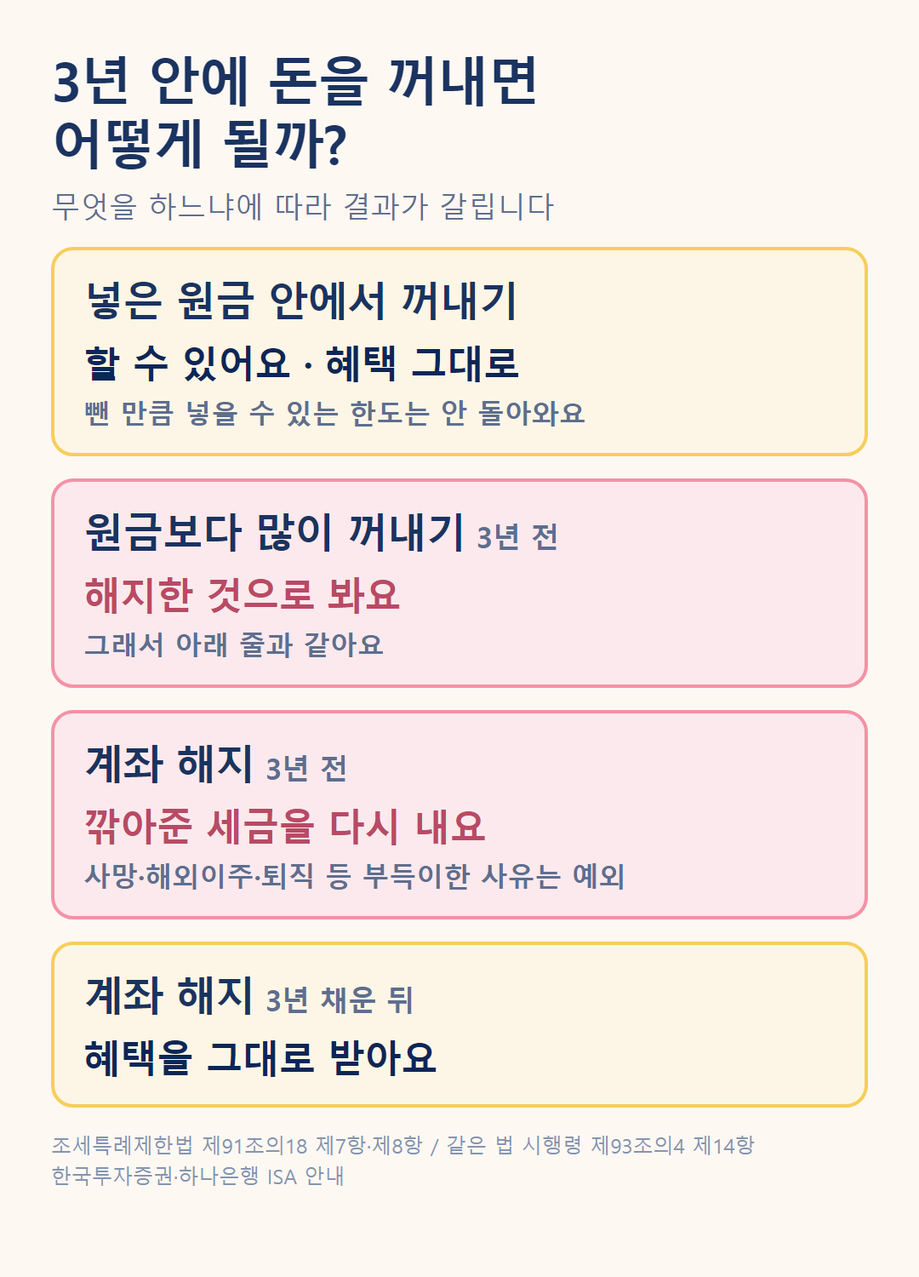
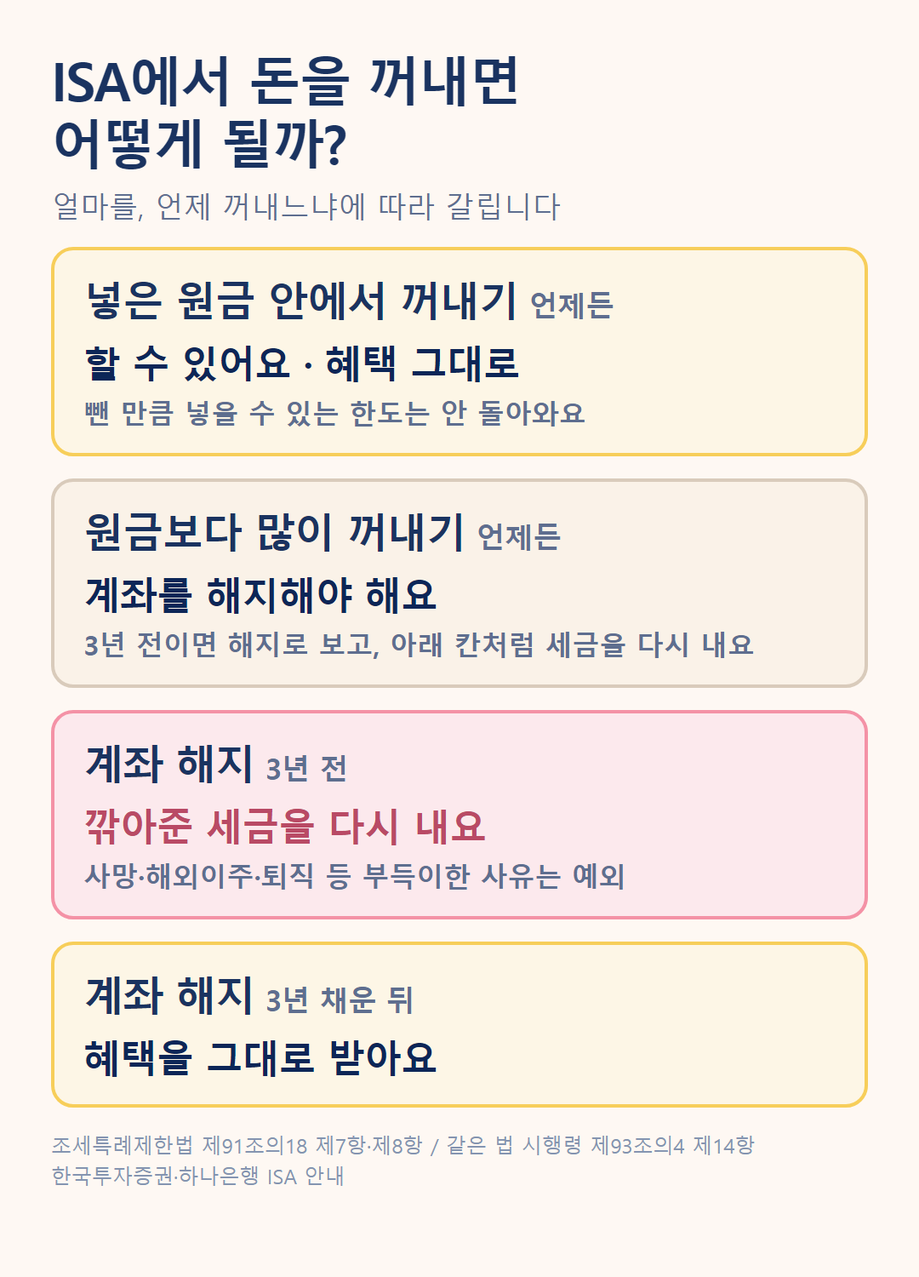
moneyweather: ISA v3 — 손익통산 제외 손실·3년 후 인출·생산적금융 ISA 표현 정리
미확인으로 남겼던 네 항목을 사용자 조사, 02_조사정리 메모, 공식자료로 정리했다.

- 국내 주식형 ETF·펀드 매매손실은 손익통산에서 제외
  (시행령 제93조의4 제9항제2호 + 소득세법 시행령 제26조의2 제4항,
  삼성증권 상품별 통산 기준, 미래에셋 매거진)
  → 3장 예시를 「해외 ETF A +300 / B −100」으로 상품부터 밝히고,
    반대 예(국내 주식형 ETF 손실은 빼주지 않음)를 붙임
- 3년이 지나도 계좌를 둔 채로는 원금까지만 인출 (한투: 시점 제한 없는
  납입원금 한도, 법령 제8항은 3년 전만 규정)
  → 5장 한 줄 요약·FAQ·그림 04 두 번째 칸 수정(중립색)
- 「재정경제부령으로 정하는 주식」= 주권상장법인 주식(대주주 제외) — 일치
- 생산적금융 ISA: 「정부안에 남아 있다」→「신설안을 내놓았고 국회 심사를
  앞둔 상태」. 2026-12-31 확인 목록 여덟 항목을 numbers.md에

조사정리 메모와 공식자료가 다른 두 항목(ETF 손실 「반영 가능」, 3년 후
원금 초과 인출 「가능」)은 출처가 없고 법령·증권사 자료와 반대라 따르지
않았다. 판단 근거를 numbers.md·factcheck.md 11번에 기록.

CLAUDE.md §38.5.10: 합쳐주는·빼주는 제도는 제외 대상부터 확인 /
예시는 결과를 바꾸는 입력(상품 종류)부터 밝힘 / 「법이 막지 않음」과
「실제로 가능」 구분 / 출처 없는 조사 메모는 근거가 아니라 질문 목록.

검수.js GREEN (RED 0 / YELLOW 0). 폭 390px 렌더링 확인.

diff --git a/MONEYWEATHER/03_콘텐츠/초안/2026-09-07_ISA_직장인_실제혜택_v3/article-tistory.html b/MONEYWEATHER/03_콘텐츠/초안/2026-09-07_ISA_직장인_실제혜택_v3/article-tistory.html
@@ -58,26 +58,26 @@ ISA 서민형  400만원 → 0원
 <p style="margin:0 0 18px !important">같은 500만원을 벌었는데 서민형이면 67만원이 남습니다. 한 달 통신비 몇 달치예요.</p>
 <h2 style="font-size:1.45rem; line-height:1.4; letter-spacing:-.5px; font-weight:800; color:#0C2657; margin:30px 0 18px; padding-top:20px; border-top:2px solid #EADFD2">3. 「손해 본 것도 같이 쳐준다」는 게 무슨 뜻인가요?</h2>
 <p style="margin:0 0 18px !important">쉽게 말하면, <strong style="font-weight:700; color:#0C2657">ISA 안에서 생긴 이익과 손실을 따로 계산하지 않고 합쳐서 보는 방식</strong>입니다.</p>
-<p style="margin:0 0 18px !important">ISA 안에 투자 두 개를 담았는데 결과가 이렇게 나왔다고 해볼게요.</p>
-<pre style="background:#F6EDE2; border:1px solid #EADFD2; border-radius:8px; padding:16px 18px; overflow-x:auto; max-width:100%; margin:24px 0; line-height:1.65; font-size:.86rem"><code style="font-family:Consolas,'D2Coding','Malgun Gothic','맑은 고딕',monospace; font-size:.9rem">투자 A   +300만원   (번 투자)
-투자 B   −100만원   (손해 본 투자)
+<p style="margin:0 0 18px !important">예를 들어볼게요. 미국 주식에 투자하는 ETF 두 개, A와 B를 ISA에 담았다고 해볼게요.</p>
+<p style="margin:0 0 18px !important"><strong style="font-weight:700; color:#0C2657">ETF</strong>는 여러 주식이나 채권 등을 한데 담아놓고, 주식처럼 사고팔 수 있는 상품이에요. A와 B는 한국 증시에 올라와 있어서 원화로 살 수 있는 <strong style="font-weight:700; color:#0C2657">국내 상장 해외 ETF</strong>입니다. 이런 ETF는 팔아서 남긴 돈에도 세금이 붙어서, 손실도 세금 계산에 들어갑니다.</p>
+<p style="margin:0 0 18px !important">세금 계산에 들어가는 손익이 이렇게 나왔다고 해볼게요.</p>
+<pre style="background:#F6EDE2; border:1px solid #EADFD2; border-radius:8px; padding:16px 18px; overflow-x:auto; max-width:100%; margin:24px 0; line-height:1.65; font-size:.86rem"><code style="font-family:Consolas,'D2Coding','Malgun Gothic','맑은 고딕',monospace; font-size:.9rem">해외 ETF A   +300만원   (번 투자)
+해외 ETF B   −100만원   (손해 본 투자)
 ──────────────────────────
-세금을 따져볼 수익   200만원</code></pre>
+세금을 따져볼 수익     200만원</code></pre>
 <p style="margin:0 0 18px !important">이 200만원은 비과세 한도 안이라 <strong style="font-weight:700; color:#0C2657">ISA에서는 세금이 0원</strong>입니다.</p>
-<p style="margin:0 0 18px !important">그냥 계좌였다면 어떨까요? A와 B가 미국 주식에 투자하는 ETF라고 해볼게요.</p>
-<p style="margin:0 0 18px !important"><strong style="font-weight:700; color:#0C2657">ETF</strong>는 여러 주식이나 채권 등을 한데 담아놓고, 주식처럼 사고팔 수 있는 상품이에요. 그중 미국 증시가 아니라 한국 증시에 올라와 있어서 원화로 살 수 있는 걸 <strong style="font-weight:700; color:#0C2657">국내 상장 해외 ETF</strong>라고 부릅니다. 이런 ETF는 팔아서 남긴 돈에도 세금이 붙어요.</p>
-<p style="margin:0 0 18px !important">그냥 계좌는 <strong style="font-weight:700; color:#0C2657">이익 난 것만 보고 세금을 뗍니다.</strong> B에서 잃은 100만원은 없는 셈 치고, A에서 번 300만원에만 세금이 붙어요.</p>
+<p style="margin:0 0 18px !important">그냥 계좌였다면 어떨까요? 그냥 계좌는 <strong style="font-weight:700; color:#0C2657">이익 난 것만 보고 세금을 뗍니다.</strong> B에서 잃은 100만원은 없는 셈 치고, A에서 번 300만원에만 세금이 붙어요.</p>
 <pre style="background:#F6EDE2; border:1px solid #EADFD2; border-radius:8px; padding:16px 18px; overflow-x:auto; max-width:100%; margin:24px 0; line-height:1.65; font-size:.86rem"><code style="font-family:Consolas,'D2Coding','Malgun Gothic','맑은 고딕',monospace; font-size:.9rem">300만원 × 15.4% = 46만 2천원</code></pre>
 <p style="margin:0 0 18px !important">실제 세금은 상품마다 정해진 과세 기준으로 계산해서 이보다 적을 수 있어요. 그래도 차이가 난다는 건 분명합니다.</p>
 <p style="margin:0 0 18px !important">같은 투자를 했는데 46만 2천원이 갈립니다.</p>
 <figure style="margin:32px 0; max-width:100%"><img src="../../../04_이미지/2026-09-07_ISA_직장인_실제혜택_v3/03_손익통산.png" alt="그냥 계좌는 이익 300만원에만 세금을 매겨 46만 2천원, ISA는 손실을 뺀 200만원이 비과세 한도 안이라 0원인 비교 그림" loading="lazy" style="width:100%; height:auto; border:1px solid #EADFD2; border-radius:10px; display:block"><figcaption style="margin-top:10px !important; font-size:.86rem; color:#5E6E8F; text-align:center">그냥 계좌는 이익 난 것만 봅니다. ISA는 바구니 전체를 봅니다.</figcaption></figure>
-<p style="margin:0 0 18px !important">그럼 어디까지 합쳐줄까요?</p>
+<p style="margin:0 0 18px !important">그럼 ISA 안에서 난 손실이면 뭐든 합쳐줄까요? <strong style="font-weight:700; color:#0C2657">그렇지 않습니다.</strong></p>
 <ul style="margin:0 0 20px; padding-left:24px">
-<li style="margin-bottom:8px"><strong style="font-weight:700; color:#0C2657">같은 종목끼리만 되나요?</strong> 아닙니다. ISA 안에 담긴 상품이면 종류가 달라도 합칩니다. 다만 법령에서 빼도록 정한 손실도 있어서, 모든 손실이 다 들어가는 건 아니에요.</li>
-<li style="margin-bottom:8px"><strong style="font-weight:700; color:#0C2657">해마다 따로 합치나요?</strong> 아닙니다. 가입 기간 전체를 합쳐서, 계좌를 해지할 때 한 번 계산합니다.</li>
+<li style="margin-bottom:8px"><strong style="font-weight:700; color:#0C2657">원래 세금이 안 붙는 손익은 빠집니다.</strong> 국내 주식형 ETF나 국내 주식형 펀드를 팔아서 난 손실이 대표적이에요. 팔아서 번 돈에 세금을 매기지 않는 대신, 잃은 돈도 합쳐주지 않습니다. 그래서 국내 주식형 ETF에서 100만원을 잃고 예금 이자를 300만원 받았다면, 300만원에서 그 100만원을 빼주지 않고 계산해요.</li>
+<li style="margin-bottom:8px"><strong style="font-weight:700; color:#0C2657">해마다 따로 합치지 않습니다.</strong> 가입 기간 전체를 합쳐서, 계좌를 해지할 때 한 번 계산합니다.</li>
 </ul>
-<p class="src-note" style="margin:-8px 0 22px !important; padding-left:12px !important; border-left:3px solid #F492A6; color:#5E6E8F; font-size:.83rem; line-height:1.6">손익통산·해지일 기준 계산 — 조세특례제한법 제91조의18 제5항, 시행령 제93조의4 제9항·제10항 / 국회예산정책처 「ISA의 국내외 현황 및 쟁점」(2026-04-30) · <a href="https://www.nabo.go.kr/board/file/down.do?fid=33319223" target="_blank" rel="noopener" style="color:#5E6E8F; text-decoration:underline; text-underline-offset:2px">보고서 보기</a> / 국내 상장 해외 ETF 과세 — <a href="https://www.samsungfund.com/etf/insight/guide/view05.do" target="_blank" rel="noopener" style="color:#5E6E8F; text-decoration:underline; text-underline-offset:2px">KODEX ETF 세금 안내</a></p>
-<p style="margin:0 0 18px !important">투자를 하다 보면 전부 오르는 경우는 잘 없죠. 이것저것 나눠 담을수록 이 부분이 커집니다.</p>
+<p class="src-note" style="margin:-8px 0 22px !important; padding-left:12px !important; border-left:3px solid #F492A6; color:#5E6E8F; font-size:.83rem; line-height:1.6">손익통산·해지일 기준 계산·제외 손실 — 조세특례제한법 제91조의18 제5항, 시행령 제93조의4 제9항·제10항, 소득세법 시행령 제26조의2 제4항 / 상품별 통산 기준 — <a href="https://www.samsungpop.com/mbw/finance/isa.do?cmd=guide" target="_blank" rel="noopener" style="color:#5E6E8F; text-decoration:underline; text-underline-offset:2px">삼성증권 ISA 안내</a> / 국회예산정책처 「ISA의 국내외 현황 및 쟁점」(2026-04-30) · <a href="https://www.nabo.go.kr/board/file/down.do?fid=33319223" target="_blank" rel="noopener" style="color:#5E6E8F; text-decoration:underline; text-underline-offset:2px">보고서 보기</a> / 국내 상장 해외 ETF 과세 — <a href="https://www.samsungfund.com/etf/insight/guide/view05.do" target="_blank" rel="noopener" style="color:#5E6E8F; text-decoration:underline; text-underline-offset:2px">KODEX ETF 세금 안내</a></p>
+<p style="margin:0 0 18px !important">투자를 하다 보면 전부 오르는 경우는 잘 없죠. 세금이 붙는 상품을 여러 개 나눠 담을수록 이 부분이 커집니다.</p>
 <h2 style="font-size:1.45rem; line-height:1.4; letter-spacing:-.5px; font-weight:800; color:#0C2657; margin:30px 0 18px; padding-top:20px; border-top:2px solid #EADFD2">4. 저는 국내 주식만 하는데, 그래도 효과가 있나요?</h2>
 <p style="margin:0 0 18px !important"><strong style="font-weight:700; color:#0C2657">효과는 있지만, 생각보다 작을 수 있습니다.</strong></p>
 <p style="margin:0 0 18px !important">이유는 하나예요. <strong style="font-weight:700; color:#0C2657">국내 주식은 팔아서 남긴 차익에 원래 세금이 없습니다.</strong> 회사 지분을 아주 많이 들고 있는 대주주가 아니라면요. ISA에 넣든 안 넣든 똑같으니, 이 부분에서는 깎아줄 세금이 없습니다.</p>
@@ -94,8 +94,8 @@ ISA 서민형  400만원 → 0원
 <h2 style="font-size:1.45rem; line-height:1.4; letter-spacing:-.5px; font-weight:800; color:#0C2657; margin:30px 0 18px; padding-top:20px; border-top:2px solid #EADFD2">5. 3년 동안 돈이 묶이는 건가요?</h2>
 <p style="margin:0 0 18px !important"><strong style="font-weight:700; color:#0C2657">ISA는 최소 3년을 유지해야 세금 혜택을 받을 수 있습니다.</strong> 이 기간을 <strong style="font-weight:700; color:#0C2657">의무가입기간</strong>이라고 해요.</p>
 <p style="margin:0 0 18px !important">그렇다고 <strong style="font-weight:700; color:#0C2657">3년 동안 돈을 한 푼도 못 빼는 건 아닙니다.</strong> 무엇을 하려는지에 따라 결과가 갈려요.</p>
-<figure style="margin:32px 0; max-width:100%"><img src="../../../04_이미지/2026-09-07_ISA_직장인_실제혜택_v3/04_인출과해지.png" alt="3년 안에 돈을 꺼내는 상황별 결과: 넣은 원금 안에서 꺼내기는 가능하고 혜택 유지(한도는 안 돌아옴), 3년 전에 원금보다 많이 꺼내면 해지로 보고 깎아준 세금을 다시 냄, 3년 전 해지는 세금을 다시 내되 사망·해외이주·퇴직 등 부득이한 사유는 예외, 3년을 채우고 해지하면 혜택을 그대로 받음" loading="lazy" style="width:100%; height:auto; border:1px solid #EADFD2; border-radius:10px; display:block"><figcaption style="margin-top:10px !important; font-size:.86rem; color:#5E6E8F; text-align:center">노란 칸은 세금 혜택이 남는 경우, 분홍 칸은 깎아준 세금을 다시 내는 경우입니다.</figcaption></figure>
-<p style="margin:0 0 18px !important">한 줄로 줄이면, <strong style="font-weight:700; color:#0C2657">넣은 원금은 3년 안에도 꺼낼 수 있고, 번 돈까지 꺼내는 건 3년을 채운 뒤에 해야 세금 혜택이 남습니다.</strong></p>
+<figure style="margin:32px 0; max-width:100%"><img src="../../../04_이미지/2026-09-07_ISA_직장인_실제혜택_v3/04_인출과해지.png" alt="ISA에서 돈을 꺼내는 상황별 결과: 넣은 원금 안에서 꺼내기는 언제든 가능하고 혜택 유지(한도는 안 돌아옴), 원금보다 많이 꺼내려면 계좌를 해지해야 하며 3년 전이면 해지로 보고 깎아준 세금을 다시 냄, 3년 전 해지는 세금을 다시 내되 사망·해외이주·퇴직 등 부득이한 사유는 예외, 3년을 채우고 해지하면 혜택을 그대로 받음" loading="lazy" style="width:100%; height:auto; border:1px solid #EADFD2; border-radius:10px; display:block"><figcaption style="margin-top:10px !important; font-size:.86rem; color:#5E6E8F; text-align:center">노란 칸은 세금 혜택이 남는 경우, 분홍 칸은 깎아준 세금을 다시 내는 경우입니다. 가운데 흰 칸은 언제 해지하느냐에 따라 갈려요.</figcaption></figure>
+<p style="margin:0 0 18px !important">한 줄로 줄이면, <strong style="font-weight:700; color:#0C2657">계좌를 둔 채로 꺼낼 수 있는 건 넣은 원금까지입니다. 번 돈까지 찾으려면 계좌를 해지해야 하고, 그 해지를 3년 채운 뒤에 해야 세금 혜택이 남아요.</strong> 3년이 지났다고 계좌를 둔 채 번 돈을 자유롭게 꺼낼 수 있는 건 아닙니다.</p>
 <p style="margin:0 0 18px !important">3년 전에 해지해도 세금을 다시 걷지 않는 경우가 있긴 합니다. 사망이나 해외이주, 그리고 해지하기 전 6개월 안에 생긴 퇴직·폐업·천재지변·3개월 이상 입원치료가 필요한 병이나 사고 같은 <strong style="font-weight:700; color:#0C2657">부득이한 사유</strong>예요. 이때는 금융회사에 사유를 신고해야 합니다.</p>
 <p class="src-note" style="margin:-8px 0 22px !important; padding-left:12px !important; border-left:3px solid #F492A6; color:#5E6E8F; font-size:.83rem; line-height:1.6">중도해지 추징·원금 초과 인출 — 조세특례제한법 제91조의18 제7항·제8항 / 부득이한 사유 — 조세특례제한법 시행령 제93조의4 제14항·제81조제6항제3호, 하나은행 ISA 안내 · <a href="https://www.law.go.kr/%EB%B2%95%EB%A0%B9/%EC%A1%B0%EC%84%B8%ED%8A%B9%EB%A1%80%EC%A0%9C%ED%95%9C%EB%B2%95" target="_blank" rel="noopener" style="color:#5E6E8F; text-decoration:underline; text-underline-offset:2px">법령 보기</a> / 중도인출·한도 미복원 — 한국투자증권 ISA 중개형 상품설명서 / 국회예산정책처 「ISA의 국내외 현황 및 쟁점」 [표 1]</p>
 <p style="margin:0 0 18px !important">그 밖의 조건은 표로 모았습니다.</p>
@@ -124,7 +124,7 @@ ISA 서민형  400만원 → 0원
 <li style="margin-bottom:8px">예금·적금 이자가 꾸준히 생기는 분</li>
 <li style="margin-bottom:8px">배당을 꾸준히 받는 주식이나 상품을 모아가는 분</li>
 <li style="margin-bottom:8px">국내에 상장된 해외 ETF를 사고파는 분</li>
-<li style="margin-bottom:8px">여러 상품에 나눠 담아서 이익과 손실이 섞이는 분</li>
+<li style="margin-bottom:8px">해외 ETF처럼 세금이 붙는 상품을 여러 개 나눠 담는 분</li>
 <li style="margin-bottom:8px">서민형 조건에 해당하는 분</li>
 </ul>
 <p style="margin:0 0 18px !important"><strong style="font-weight:700; color:#0C2657">지금 당장은 급하지 않은 쪽</strong></p>
@@ -143,19 +143,19 @@ ISA 서민형  400만원 → 0원
 </div>
 <div class="qa" style="border-top:1px solid #EADFD2; padding:18px 0 4px">
 <p class="qa-q" style="margin:0 0 8px !important; font-weight:700; color:#0C2657">200만원 비과세는 해마다 200만원인가요?</p>
-<p class="qa-a" style="margin:0 0 10px !important; color:#1A3360"><strong style="font-weight:700; color:#0C2657">A. 아닙니다.</strong> ISA 계좌를 해지할 때, 가입 기간 동안 번 돈에서 손실을 뺀 금액을 모두 합쳐 200만원(서민형 400만원)까지 세금이 없습니다. 넣은 돈이 아니라 번 돈 기준이에요.</p>
+<p class="qa-a" style="margin:0 0 10px !important; color:#1A3360"><strong style="font-weight:700; color:#0C2657">A. 아닙니다.</strong> ISA 계좌를 해지할 때, 가입 기간 동안 생긴 이자·배당 같은 수익에서 합쳐주는 손실을 뺀 금액이 200만원(서민형 400만원)까지면 세금이 없습니다. 넣은 돈이 아니라 번 돈 기준이에요.</p>
 </div>
 <div class="qa" style="border-top:1px solid #EADFD2; padding:18px 0 4px">
 <p class="qa-q" style="margin:0 0 8px !important; font-weight:700; color:#0C2657">3년 안에 돈이 필요하면 어떻게 하나요?</p>
-<p class="qa-a" style="margin:0 0 10px !important; color:#1A3360"><strong style="font-weight:700; color:#0C2657">A. 넣은 원금까지는 계좌를 유지한 채로 뺄 수 있습니다.</strong> 횟수 제한도 없어요. 3년 안에 원금보다 많이 꺼내면 해지한 것으로 보고, 그동안 깎아준 세금을 다시 내는 게 원칙입니다. 사망·해외이주나 해지 전 6개월 안에 생긴 퇴직·폐업·장기 입원치료 같은 부득이한 사유는 예외예요. 뺀 원금만큼 넣을 수 있는 한도는 되살아나지 않습니다.</p>
+<p class="qa-a" style="margin:0 0 10px !important; color:#1A3360"><strong style="font-weight:700; color:#0C2657">A. 넣은 원금까지는 계좌를 유지한 채로 뺄 수 있습니다.</strong> 횟수 제한도 없어요. 번 돈까지 찾으려면 계좌를 해지해야 하는데, 이건 3년이 지난 뒤에도 같습니다. 3년 안에 원금보다 많이 꺼내면 해지한 것으로 보고, 그동안 깎아준 세금을 다시 내는 게 원칙입니다. 사망·해외이주나 해지 전 6개월 안에 생긴 퇴직·폐업·장기 입원치료 같은 부득이한 사유는 예외예요. 뺀 원금만큼 넣을 수 있는 한도는 되살아나지 않습니다. 인출 방법은 금융회사마다 조금씩 달라서, 쓰는 곳의 안내를 한 번 확인하는 게 좋아요.</p>
 </div>
 <div class="qa" style="border-top:1px solid #EADFD2; padding:18px 0 4px">
 <p class="qa-q" style="margin:0 0 8px !important; font-weight:700; color:#0C2657">국내 주식만 사는데 ISA를 만들 필요가 있나요?</p>
-<p class="qa-a" style="margin:0 0 10px !important; color:#1A3360"><strong style="font-weight:700; color:#0C2657">A. 효과가 작을 수 있습니다.</strong> 국내 주식을 팔아서 남긴 차익에는 원래 세금이 없기 때문이에요. 다만 배당금에 붙는 세금은 깎입니다. 그리고 ISA 안에서 국내 상장주식을 팔아 손해를 봤다면, 그 손실도 다른 상품의 이익과 합쳐서 계산해줍니다. 대주주가 가진 주식은 빠지고, ISA 밖에서 사고판 것도 합치지 않습니다.</p>
+<p class="qa-a" style="margin:0 0 10px !important; color:#1A3360"><strong style="font-weight:700; color:#0C2657">A. 효과가 작을 수 있습니다.</strong> 국내 주식을 팔아서 남긴 차익에는 원래 세금이 없기 때문이에요. 다만 배당금에 붙는 세금은 깎입니다. 그리고 ISA 안에서 국내 상장주식을 직접 팔아 손해를 봤다면, 그 손실은 다른 상품의 이익과 합쳐서 계산해줍니다. 대주주가 가진 주식은 빠지고, ISA 밖에서 사고판 것도 합치지 않습니다. 국내 주식형 ETF나 펀드에서 난 손실은 합쳐주지 않는다는 점도 헷갈리기 쉬워요.</p>
 </div>
 <div class="qa" style="border-top:1px solid #EADFD2; padding:18px 0 4px">
 <p class="qa-q" style="margin:0 0 8px !important; font-weight:700; color:#0C2657">올해 ISA 제도가 또 바뀐다던데요?</p>
-<p class="qa-a" style="margin:0 0 10px !important; color:#1A3360"><strong style="font-weight:700; color:#0C2657">A. 아직 바뀐 건 없습니다.</strong> 2026년 8월 발표된 세제개편안에는 기존 ISA의 계약기간을 제한하고 한도 이월을 없애는 내용이 있었지만, 9월 1일 확정된 정부안에서 빠졌습니다. 국내 투자 전용인 「생산적금융 ISA」를 새로 만드는 안은 정부안에 남아 있습니다. 정부안은 국회 심사를 거쳐야 법이 되므로, 가입할 때는 그 시점에 시행 중인 기준을 확인하는 게 좋습니다.</p>
+<p class="qa-a" style="margin:0 0 10px !important; color:#1A3360"><strong style="font-weight:700; color:#0C2657">A. 아직 바뀐 건 없습니다.</strong> 2026년 8월 발표된 세제개편안에는 기존 ISA의 계약기간을 제한하고 한도 이월을 없애는 내용이 있었지만, 9월 1일 국무회의를 거친 정부안에서 빠졌습니다. 정부는 국내 투자 전용인 「생산적금융 ISA」 신설안도 내놓았는데, 이 법안은 9월 3일까지 국회에 제출돼 심사를 앞둔 상태입니다. 국회를 통과해야 법이 되므로, 가입할 때는 그 시점에 시행 중인 기준을 확인하는 게 좋습니다.</p>
 </div>
 <div class="qa" style="border-top:1px solid #EADFD2; padding:18px 0 4px">
 <p class="qa-q" style="margin:0 0 8px !important; font-weight:700; color:#0C2657">만기가 되면 그냥 찾으면 되나요?</p>
@@ -166,7 +166,7 @@ ISA 서민형  400만원 → 0원
 <p class="qa-a" style="margin:0 0 10px !important; color:#1A3360"><strong style="font-weight:700; color:#0C2657">A. 한 사람당 하나입니다.</strong> 은행·증권사를 통틀어 1인 1계좌예요. 다른 곳으로 옮기고 싶으면 기존 계좌를 해지하거나 이전 신청을 해야 합니다.</p>
 </div>
 </div>
-<p class="src-note" style="margin:-8px 0 22px !important; padding-left:12px !important; border-left:3px solid #F492A6; color:#5E6E8F; font-size:.83rem; line-height:1.6">가입 자격 — 조세특례제한법 제91조의18 제1항·제129조의2 / 중도해지 — 같은 법 제91조의18 제7항·제8항, 시행령 제93조의4 제14항 / 중도인출·1인 1계좌 — 한국투자증권 ISA 중개형 상품설명서 / 2026년 세제개편안 — 「2026년 세제개편안 정부안 확정」(2026-09-01) 첨부 「주요 수정사항」 1·2번 · 대한민국 정책브리핑 <a href="https://www.korea.kr/briefing/pressReleaseView.do?newsId=156776418" target="_blank" rel="noopener" style="color:#5E6E8F; text-decoration:underline; text-underline-offset:2px">보도자료 보기</a> / 국내 상장주식 손실 통산(대주주 제외) — 조세특례제한법 시행규칙 제42조의3 제1항, <a href="https://www.samsungpop.com/mbw/finance/isa.do?cmd=guide" target="_blank" rel="noopener" style="color:#5E6E8F; text-decoration:underline; text-underline-offset:2px">삼성증권 ISA 안내</a> / 만기 후 연금계좌 이전 — 소득세법 제59조의3 제3항·제4항, 시행령 제118조의2 제3항 / 55세 연금수령 — 소득세법 시행령 제40조의2 제3항 / 계약기간·연장 — 조세특례제한법 제91조의18 제3항제4호·제4항 · <a href="https://www.nts.go.kr/nts/cm/cntnts/cntntsView.do?cntntsId=7875" target="_blank" rel="noopener" style="color:#5E6E8F; text-decoration:underline; text-underline-offset:2px">국세청 연금계좌 안내</a></p>
+<p class="src-note" style="margin:-8px 0 22px !important; padding-left:12px !important; border-left:3px solid #F492A6; color:#5E6E8F; font-size:.83rem; line-height:1.6">가입 자격 — 조세특례제한법 제91조의18 제1항·제129조의2 / 중도해지 — 같은 법 제91조의18 제7항·제8항, 시행령 제93조의4 제14항 / 중도인출·1인 1계좌 — 한국투자증권 ISA 중개형 상품설명서 / 2026년 세제개편안 — 「2026년 세제개편안 정부안 확정」(2026-09-01) 첨부 「주요 수정사항」 1·2번 · 대한민국 정책브리핑 <a href="https://www.korea.kr/briefing/pressReleaseView.do?newsId=156776418" target="_blank" rel="noopener" style="color:#5E6E8F; text-decoration:underline; text-underline-offset:2px">보도자료 보기</a> / 국내 상장주식 손실 통산(대주주 제외)·국내 주식형 펀드 손실 제외 — 조세특례제한법 시행규칙 제42조의3 제1항, 시행령 제93조의4 제9항, <a href="https://www.samsungpop.com/mbw/finance/isa.do?cmd=guide" target="_blank" rel="noopener" style="color:#5E6E8F; text-decoration:underline; text-underline-offset:2px">삼성증권 ISA 안내</a> / 만기 후 연금계좌 이전 — 소득세법 제59조의3 제3항·제4항, 시행령 제118조의2 제3항 / 55세 연금수령 — 소득세법 시행령 제40조의2 제3항 / 계약기간·연장 — 조세특례제한법 제91조의18 제3항제4호·제4항 · <a href="https://www.nts.go.kr/nts/cm/cntnts/cntntsView.do?cntntsId=7875" target="_blank" rel="noopener" style="color:#5E6E8F; text-decoration:underline; text-underline-offset:2px">국세청 연금계좌 안내</a></p>
 <h2 style="font-size:1.45rem; line-height:1.4; letter-spacing:-.5px; font-weight:800; color:#0C2657; margin:30px 0 18px; padding-top:20px; border-top:2px solid #EADFD2">결론: 그래서 오늘 당장 무엇을 확인해야 할까?</h2>
 <p style="margin:0 0 18px !important">여기까지 읽으셨다면, 월급 말고 따로 신고하는 소득이 없는 직장인은 작년 <strong style="font-weight:700; color:#0C2657">총급여가 5,000만원을 넘는지</strong>부터 확인해보세요. 이 한 줄로 세금을 안 내는 금액이 두 배로 갈립니다. 조건을 채우는데 몰라서 일반형으로 만드는 게 제일 아깝거든요.</p>
 <div class="do-box" style="background:#FEF8F3; border:1px solid #EADFD2; border-radius:8px; padding:20px 24px; margin:24px 0">

diff --git a/MONEYWEATHER/03_콘텐츠/초안/2026-09-07_ISA_직장인_실제혜택_v3/article.html b/MONEYWEATHER/03_콘텐츠/초안/2026-09-07_ISA_직장인_실제혜택_v3/article.html
@@ -129,26 +129,26 @@ ISA 서민형  400만원 → 0원
 <p>같은 500만원을 벌었는데 서민형이면 67만원이 남습니다. 한 달 통신비 몇 달치예요.</p>
 <h2>3. 「손해 본 것도 같이 쳐준다」는 게 무슨 뜻인가요?</h2>
 <p>쉽게 말하면, <strong>ISA 안에서 생긴 이익과 손실을 따로 계산하지 않고 합쳐서 보는 방식</strong>입니다.</p>
-<p>ISA 안에 투자 두 개를 담았는데 결과가 이렇게 나왔다고 해볼게요.</p>
-<pre><code>투자 A   +300만원   (번 투자)
-투자 B   −100만원   (손해 본 투자)
+<p>예를 들어볼게요. 미국 주식에 투자하는 ETF 두 개, A와 B를 ISA에 담았다고 해볼게요.</p>
+<p><strong>ETF</strong>는 여러 주식이나 채권 등을 한데 담아놓고, 주식처럼 사고팔 수 있는 상품이에요. A와 B는 한국 증시에 올라와 있어서 원화로 살 수 있는 <strong>국내 상장 해외 ETF</strong>입니다. 이런 ETF는 팔아서 남긴 돈에도 세금이 붙어서, 손실도 세금 계산에 들어갑니다.</p>
+<p>세금 계산에 들어가는 손익이 이렇게 나왔다고 해볼게요.</p>
+<pre><code>해외 ETF A   +300만원   (번 투자)
+해외 ETF B   −100만원   (손해 본 투자)
 ──────────────────────────
-세금을 따져볼 수익   200만원</code></pre>
+세금을 따져볼 수익     200만원</code></pre>
 <p>이 200만원은 비과세 한도 안이라 <strong>ISA에서는 세금이 0원</strong>입니다.</p>
-<p>그냥 계좌였다면 어떨까요? A와 B가 미국 주식에 투자하는 ETF라고 해볼게요.</p>
-<p><strong>ETF</strong>는 여러 주식이나 채권 등을 한데 담아놓고, 주식처럼 사고팔 수 있는 상품이에요. 그중 미국 증시가 아니라 한국 증시에 올라와 있어서 원화로 살 수 있는 걸 <strong>국내 상장 해외 ETF</strong>라고 부릅니다. 이런 ETF는 팔아서 남긴 돈에도 세금이 붙어요.</p>
-<p>그냥 계좌는 <strong>이익 난 것만 보고 세금을 뗍니다.</strong> B에서 잃은 100만원은 없는 셈 치고, A에서 번 300만원에만 세금이 붙어요.</p>
+<p>그냥 계좌였다면 어떨까요? 그냥 계좌는 <strong>이익 난 것만 보고 세금을 뗍니다.</strong> B에서 잃은 100만원은 없는 셈 치고, A에서 번 300만원에만 세금이 붙어요.</p>
 <pre><code>300만원 × 15.4% = 46만 2천원</code></pre>
 <p>실제 세금은 상품마다 정해진 과세 기준으로 계산해서 이보다 적을 수 있어요. 그래도 차이가 난다는 건 분명합니다.</p>
 <p>같은 투자를 했는데 46만 2천원이 갈립니다.</p>
 <figure><img src="../../../04_이미지/2026-09-07_ISA_직장인_실제혜택_v3/03_손익통산.png" alt="그냥 계좌는 이익 300만원에만 세금을 매겨 46만 2천원, ISA는 손실을 뺀 200만원이 비과세 한도 안이라 0원인 비교 그림" loading="lazy"><figcaption>그냥 계좌는 이익 난 것만 봅니다. ISA는 바구니 전체를 봅니다.</figcaption></figure>
-<p>그럼 어디까지 합쳐줄까요?</p>
+<p>그럼 ISA 안에서 난 손실이면 뭐든 합쳐줄까요? <strong>그렇지 않습니다.</strong></p>
 <ul>
-<li><strong>같은 종목끼리만 되나요?</strong> 아닙니다. ISA 안에 담긴 상품이면 종류가 달라도 합칩니다. 다만 법령에서 빼도록 정한 손실도 있어서, 모든 손실이 다 들어가는 건 아니에요.</li>
-<li><strong>해마다 따로 합치나요?</strong> 아닙니다. 가입 기간 전체를 합쳐서, 계좌를 해지할 때 한 번 계산합니다.</li>
+<li><strong>원래 세금이 안 붙는 손익은 빠집니다.</strong> 국내 주식형 ETF나 국내 주식형 펀드를 팔아서 난 손실이 대표적이에요. 팔아서 번 돈에 세금을 매기지 않는 대신, 잃은 돈도 합쳐주지 않습니다. 그래서 국내 주식형 ETF에서 100만원을 잃고 예금 이자를 300만원 받았다면, 300만원에서 그 100만원을 빼주지 않고 계산해요.</li>
+<li><strong>해마다 따로 합치지 않습니다.</strong> 가입 기간 전체를 합쳐서, 계좌를 해지할 때 한 번 계산합니다.</li>
 </ul>
-<p class="src-note">손익통산·해지일 기준 계산 — 조세특례제한법 제91조의18 제5항, 시행령 제93조의4 제9항·제10항 / 국회예산정책처 「ISA의 국내외 현황 및 쟁점」(2026-04-30) · <a href="https://www.nabo.go.kr/board/file/down.do?fid=33319223" target="_blank" rel="noopener">보고서 보기</a> / 국내 상장 해외 ETF 과세 — <a href="https://www.samsungfund.com/etf/insight/guide/view05.do" target="_blank" rel="noopener">KODEX ETF 세금 안내</a></p>
-<p>투자를 하다 보면 전부 오르는 경우는 잘 없죠. 이것저것 나눠 담을수록 이 부분이 커집니다.</p>
+<p class="src-note">손익통산·해지일 기준 계산·제외 손실 — 조세특례제한법 제91조의18 제5항, 시행령 제93조의4 제9항·제10항, 소득세법 시행령 제26조의2 제4항 / 상품별 통산 기준 — <a href="https://www.samsungpop.com/mbw/finance/isa.do?cmd=guide" target="_blank" rel="noopener">삼성증권 ISA 안내</a> / 국회예산정책처 「ISA의 국내외 현황 및 쟁점」(2026-04-30) · <a href="https://www.nabo.go.kr/board/file/down.do?fid=33319223" target="_blank" rel="noopener">보고서 보기</a> / 국내 상장 해외 ETF 과세 — <a href="https://www.samsungfund.com/etf/insight/guide/view05.do" target="_blank" rel="noopener">KODEX ETF 세금 안내</a></p>
+<p>투자를 하다 보면 전부 오르는 경우는 잘 없죠. 세금이 붙는 상품을 여러 개 나눠 담을수록 이 부분이 커집니다.</p>
 <h2>4. 저는 국내 주식만 하는데, 그래도 효과가 있나요?</h2>
 <p><strong>효과는 있지만, 생각보다 작을 수 있습니다.</strong></p>
 <p>이유는 하나예요. <strong>국내 주식은 팔아서 남긴 차익에 원래 세금이 없습니다.</strong> 회사 지분을 아주 많이 들고 있는 대주주가 아니라면요. ISA에 넣든 안 넣든 똑같으니, 이 부분에서는 깎아줄 세금이 없습니다.</p>
@@ -165,8 +165,8 @@ ISA 서민형  400만원 → 0원
 <h2>5. 3년 동안 돈이 묶이는 건가요?</h2>
 <p><strong>ISA는 최소 3년을 유지해야 세금 혜택을 받을 수 있습니다.</strong> 이 기간을 <strong>의무가입기간</strong>이라고 해요.</p>
 <p>그렇다고 <strong>3년 동안 돈을 한 푼도 못 빼는 건 아닙니다.</strong> 무엇을 하려는지에 따라 결과가 갈려요.</p>
-<figure><img src="../../../04_이미지/2026-09-07_ISA_직장인_실제혜택_v3/04_인출과해지.png" alt="3년 안에 돈을 꺼내는 상황별 결과: 넣은 원금 안에서 꺼내기는 가능하고 혜택 유지(한도는 안 돌아옴), 3년 전에 원금보다 많이 꺼내면 해지로 보고 깎아준 세금을 다시 냄, 3년 전 해지는 세금을 다시 내되 사망·해외이주·퇴직 등 부득이한 사유는 예외, 3년을 채우고 해지하면 혜택을 그대로 받음" loading="lazy"><figcaption>노란 칸은 세금 혜택이 남는 경우, 분홍 칸은 깎아준 세금을 다시 내는 경우입니다.</figcaption></figure>
-<p>한 줄로 줄이면, <strong>넣은 원금은 3년 안에도 꺼낼 수 있고, 번 돈까지 꺼내는 건 3년을 채운 뒤에 해야 세금 혜택이 남습니다.</strong></p>
+<figure><img src="../../../04_이미지/2026-09-07_ISA_직장인_실제혜택_v3/04_인출과해지.png" alt="ISA에서 돈을 꺼내는 상황별 결과: 넣은 원금 안에서 꺼내기는 언제든 가능하고 혜택 유지(한도는 안 돌아옴), 원금보다 많이 꺼내려면 계좌를 해지해야 하며 3년 전이면 해지로 보고 깎아준 세금을 다시 냄, 3년 전 해지는 세금을 다시 내되 사망·해외이주·퇴직 등 부득이한 사유는 예외, 3년을 채우고 해지하면 혜택을 그대로 받음" loading="lazy"><figcaption>노란 칸은 세금 혜택이 남는 경우, 분홍 칸은 깎아준 세금을 다시 내는 경우입니다. 가운데 흰 칸은 언제 해지하느냐에 따라 갈려요.</figcaption></figure>
+<p>한 줄로 줄이면, <strong>계좌를 둔 채로 꺼낼 수 있는 건 넣은 원금까지입니다. 번 돈까지 찾으려면 계좌를 해지해야 하고, 그 해지를 3년 채운 뒤에 해야 세금 혜택이 남아요.</strong> 3년이 지났다고 계좌를 둔 채 번 돈을 자유롭게 꺼낼 수 있는 건 아닙니다.</p>
 <p>3년 전에 해지해도 세금을 다시 걷지 않는 경우가 있긴 합니다. 사망이나 해외이주, 그리고 해지하기 전 6개월 안에 생긴 퇴직·폐업·천재지변·3개월 이상 입원치료가 필요한 병이나 사고 같은 <strong>부득이한 사유</strong>예요. 이때는 금융회사에 사유를 신고해야 합니다.</p>
 <p class="src-note">중도해지 추징·원금 초과 인출 — 조세특례제한법 제91조의18 제7항·제8항 / 부득이한 사유 — 조세특례제한법 시행령 제93조의4 제14항·제81조제6항제3호, 하나은행 ISA 안내 · <a href="https://www.law.go.kr/%EB%B2%95%EB%A0%B9/%EC%A1%B0%EC%84%B8%ED%8A%B9%EB%A1%80%EC%A0%9C%ED%95%9C%EB%B2%95" target="_blank" rel="noopener">법령 보기</a> / 중도인출·한도 미복원 — 한국투자증권 ISA 중개형 상품설명서 / 국회예산정책처 「ISA의 국내외 현황 및 쟁점」 [표 1]</p>
 <p>그 밖의 조건은 표로 모았습니다.</p>
@@ -195,7 +195,7 @@ ISA 서민형  400만원 → 0원
 <li>예금·적금 이자가 꾸준히 생기는 분</li>
 <li>배당을 꾸준히 받는 주식이나 상품을 모아가는 분</li>
 <li>국내에 상장된 해외 ETF를 사고파는 분</li>
-<li>여러 상품에 나눠 담아서 이익과 손실이 섞이는 분</li>
+<li>해외 ETF처럼 세금이 붙는 상품을 여러 개 나눠 담는 분</li>
 <li>서민형 조건에 해당하는 분</li>
 </ul>
 <p><strong>지금 당장은 급하지 않은 쪽</strong></p>
@@ -214,19 +214,19 @@ ISA 서민형  400만원 → 0원
 </div>
 <div class="qa">
 <p class="qa-q">200만원 비과세는 해마다 200만원인가요?</p>
-<p class="qa-a"><strong>A. 아닙니다.</strong> ISA 계좌를 해지할 때, 가입 기간 동안 번 돈에서 손실을 뺀 금액을 모두 합쳐 200만원(서민형 400만원)까지 세금이 없습니다. 넣은 돈이 아니라 번 돈 기준이에요.</p>
+<p class="qa-a"><strong>A. 아닙니다.</strong> ISA 계좌를 해지할 때, 가입 기간 동안 생긴 이자·배당 같은 수익에서 합쳐주는 손실을 뺀 금액이 200만원(서민형 400만원)까지면 세금이 없습니다. 넣은 돈이 아니라 번 돈 기준이에요.</p>
 </div>
 <div class="qa">
 <p class="qa-q">3년 안에 돈이 필요하면 어떻게 하나요?</p>
-<p class="qa-a"><strong>A. 넣은 원금까지는 계좌를 유지한 채로 뺄 수 있습니다.</strong> 횟수 제한도 없어요. 3년 안에 원금보다 많이 꺼내면 해지한 것으로 보고, 그동안 깎아준 세금을 다시 내는 게 원칙입니다. 사망·해외이주나 해지 전 6개월 안에 생긴 퇴직·폐업·장기 입원치료 같은 부득이한 사유는 예외예요. 뺀 원금만큼 넣을 수 있는 한도는 되살아나지 않습니다.</p>
+<p class="qa-a"><strong>A. 넣은 원금까지는 계좌를 유지한 채로 뺄 수 있습니다.</strong> 횟수 제한도 없어요. 번 돈까지 찾으려면 계좌를 해지해야 하는데, 이건 3년이 지난 뒤에도 같습니다. 3년 안에 원금보다 많이 꺼내면 해지한 것으로 보고, 그동안 깎아준 세금을 다시 내는 게 원칙입니다. 사망·해외이주나 해지 전 6개월 안에 생긴 퇴직·폐업·장기 입원치료 같은 부득이한 사유는 예외예요. 뺀 원금만큼 넣을 수 있는 한도는 되살아나지 않습니다. 인출 방법은 금융회사마다 조금씩 달라서, 쓰는 곳의 안내를 한 번 확인하는 게 좋아요.</p>
 </div>
 <div class="qa">
 <p class="qa-q">국내 주식만 사는데 ISA를 만들 필요가 있나요?</p>
-<p class="qa-a"><strong>A. 효과가 작을 수 있습니다.</strong> 국내 주식을 팔아서 남긴 차익에는 원래 세금이 없기 때문이에요. 다만 배당금에 붙는 세금은 깎입니다. 그리고 ISA 안에서 국내 상장주식을 팔아 손해를 봤다면, 그 손실도 다른 상품의 이익과 합쳐서 계산해줍니다. 대주주가 가진 주식은 빠지고, ISA 밖에서 사고판 것도 합치지 않습니다.</p>
+<p class="qa-a"><strong>A. 효과가 작을 수 있습니다.</strong> 국내 주식을 팔아서 남긴 차익에는 원래 세금이 없기 때문이에요. 다만 배당금에 붙는 세금은 깎입니다. 그리고 ISA 안에서 국내 상장주식을 직접 팔아 손해를 봤다면, 그 손실은 다른 상품의 이익과 합쳐서 계산해줍니다. 대주주가 가진 주식은 빠지고, ISA 밖에서 사고판 것도 합치지 않습니다. 국내 주식형 ETF나 펀드에서 난 손실은 합쳐주지 않는다는 점도 헷갈리기 쉬워요.</p>
 </div>
 <div class="qa">
 <p class="qa-q">올해 ISA 제도가 또 바뀐다던데요?</p>
-<p class="qa-a"><strong>A. 아직 바뀐 건 없습니다.</strong> 2026년 8월 발표된 세제개편안에는 기존 ISA의 계약기간을 제한하고 한도 이월을 없애는 내용이 있었지만, 9월 1일 확정된 정부안에서 빠졌습니다. 국내 투자 전용인 「생산적금융 ISA」를 새로 만드는 안은 정부안에 남아 있습니다. 정부안은 국회 심사를 거쳐야 법이 되므로, 가입할 때는 그 시점에 시행 중인 기준을 확인하는 게 좋습니다.</p>
+<p class="qa-a"><strong>A. 아직 바뀐 건 없습니다.</strong> 2026년 8월 발표된 세제개편안에는 기존 ISA의 계약기간을 제한하고 한도 이월을 없애는 내용이 있었지만, 9월 1일 국무회의를 거친 정부안에서 빠졌습니다. 정부는 국내 투자 전용인 「생산적금융 ISA」 신설안도 내놓았는데, 이 법안은 9월 3일까지 국회에 제출돼 심사를 앞둔 상태입니다. 국회를 통과해야 법이 되므로, 가입할 때는 그 시점에 시행 중인 기준을 확인하는 게 좋습니다.</p>
 </div>
 <div class="qa">
 <p class="qa-q">만기가 되면 그냥 찾으면 되나요?</p>
@@ -237,7 +237,7 @@ ISA 서민형  400만원 → 0원
 <p class="qa-a"><strong>A. 한 사람당 하나입니다.</strong> 은행·증권사를 통틀어 1인 1계좌예요. 다른 곳으로 옮기고 싶으면 기존 계좌를 해지하거나 이전 신청을 해야 합니다.</p>
 </div>
 </div>
-<p class="src-note">가입 자격 — 조세특례제한법 제91조의18 제1항·제129조의2 / 중도해지 — 같은 법 제91조의18 제7항·제8항, 시행령 제93조의4 제14항 / 중도인출·1인 1계좌 — 한국투자증권 ISA 중개형 상품설명서 / 2026년 세제개편안 — 「2026년 세제개편안 정부안 확정」(2026-09-01) 첨부 「주요 수정사항」 1·2번 · 대한민국 정책브리핑 <a href="https://www.korea.kr/briefing/pressReleaseView.do?newsId=156776418" target="_blank" rel="noopener">보도자료 보기</a> / 국내 상장주식 손실 통산(대주주 제외) — 조세특례제한법 시행규칙 제42조의3 제1항, <a href="https://www.samsungpop.com/mbw/finance/isa.do?cmd=guide" target="_blank" rel="noopener">삼성증권 ISA 안내</a> / 만기 후 연금계좌 이전 — 소득세법 제59조의3 제3항·제4항, 시행령 제118조의2 제3항 / 55세 연금수령 — 소득세법 시행령 제40조의2 제3항 / 계약기간·연장 — 조세특례제한법 제91조의18 제3항제4호·제4항 · <a href="https://www.nts.go.kr/nts/cm/cntnts/cntntsView.do?cntntsId=7875" target="_blank" rel="noopener">국세청 연금계좌 안내</a></p>
+<p class="src-note">가입 자격 — 조세특례제한법 제91조의18 제1항·제129조의2 / 중도해지 — 같은 법 제91조의18 제7항·제8항, 시행령 제93조의4 제14항 / 중도인출·1인 1계좌 — 한국투자증권 ISA 중개형 상품설명서 / 2026년 세제개편안 — 「2026년 세제개편안 정부안 확정」(2026-09-01) 첨부 「주요 수정사항」 1·2번 · 대한민국 정책브리핑 <a href="https://www.korea.kr/briefing/pressReleaseView.do?newsId=156776418" target="_blank" rel="noopener">보도자료 보기</a> / 국내 상장주식 손실 통산(대주주 제외)·국내 주식형 펀드 손실 제외 — 조세특례제한법 시행규칙 제42조의3 제1항, 시행령 제93조의4 제9항, <a href="https://www.samsungpop.com/mbw/finance/isa.do?cmd=guide" target="_blank" rel="noopener">삼성증권 ISA 안내</a> / 만기 후 연금계좌 이전 — 소득세법 제59조의3 제3항·제4항, 시행령 제118조의2 제3항 / 55세 연금수령 — 소득세법 시행령 제40조의2 제3항 / 계약기간·연장 — 조세특례제한법 제91조의18 제3항제4호·제4항 · <a href="https://www.nts.go.kr/nts/cm/cntnts/cntntsView.do?cntntsId=7875" target="_blank" rel="noopener">국세청 연금계좌 안내</a></p>
 <h2>결론: 그래서 오늘 당장 무엇을 확인해야 할까?</h2>
 <p>여기까지 읽으셨다면, 월급 말고 따로 신고하는 소득이 없는 직장인은 작년 <strong>총급여가 5,000만원을 넘는지</strong>부터 확인해보세요. 이 한 줄로 세금을 안 내는 금액이 두 배로 갈립니다. 조건을 채우는데 몰라서 일반형으로 만드는 게 제일 아깝거든요.</p>
 <div class="do-box">

diff --git a/MONEYWEATHER/04_이미지/2026-09-07_ISA_직장인_실제혜택_v3/_소스/04_인출과해지.html b/MONEYWEATHER/04_이미지/2026-09-07_ISA_직장인_실제혜택_v3/_소스/04_인출과해지.html
@@ -17,8 +17,10 @@
     ③ 3년 전 해지       — 같은 조 제7항 (사망·해외이주 등 부득이한 사유 제외) / 시행령 제93조의4 제14항
     ④ 3년 채우고 해지   — 같은 조 제7항의 반대 경우
 
-  쓰지 않은 것 — 3년이 지난 뒤 계좌를 둔 채 원금보다 많이 꺼낼 수 있는지는 확인하지 못했다.
-  그래서 ②를 「3년 전」으로 좁혔다.
+  ② 2026-09-13 수정 — 3년이 지난 뒤에도 계좌를 둔 채로는 원금까지만 인출된다(한투 「납입원금 합계액 한도 내」,
+  수익금 제외, 시점 제한 없음 / 사용자 조사: 미래에셋 「투자수익은 계좌 해지 시점에 인출」).
+  법령 제8항은 3년 전만 규정하므로, 「3년 전이면 해지로 본다」는 작은 글씨로 남겼다.
+  조사정리 폴더 메모의 「3년 후 원금 초과 인출 가능」은 세법상 금지 규정이 없다는 뜻으로 읽었고, 금융회사 운영 기준과 달라 따르지 않았다.
 
   색: 00_브랜드/색상.md — 직접 적지 않고 변수로 쓴다
 -->
@@ -35,6 +37,8 @@
   .card { border-radius:26px; padding:26px 34px 26px; margin-top:26px; border:4px solid var(--line); }
   .card.ok  { background:var(--gold-bg); border-color:var(--gold); }
   .card.bad { background:var(--pink-bg); border-color:var(--pink); }
+  .card.mid { background:var(--cream); border-color:var(--line-d); }  /* 시점에 따라 갈리는 칸 — 좋다/나쁘다 색을 주지 않는다 */
+  .mid .res { color:var(--navy-d); }
 
   .sit { font-size:48px; font-weight:800; letter-spacing:-1.5px; }
   .sit span { font-size:34px; font-weight:700; color:var(--muted); letter-spacing:-0.5px; margin-left:12px; }
@@ -46,19 +50,19 @@
   .src { margin-top:26px; font-size:24px; color:var(--muted-l); line-height:1.5; }
 </style>
 
-<h2>3년 안에 돈을 꺼내면<br>어떻게 될까?</h2>
-<div class="sub">무엇을 하느냐에 따라 결과가 갈립니다</div>
+<h2>ISA에서 돈을 꺼내면<br>어떻게 될까?</h2>
+<div class="sub">얼마를, 언제 꺼내느냐에 따라 갈립니다</div>
 
 <div class="card ok">
-  <div class="sit">넣은 원금 안에서 꺼내기</div>
+  <div class="sit">넣은 원금 안에서 꺼내기<span>언제든</span></div>
   <div class="res">할 수 있어요 · 혜택 그대로</div>
   <div class="note">뺀 만큼 넣을 수 있는 한도는 안 돌아와요</div>
 </div>
 
-<div class="card bad">
-  <div class="sit">원금보다 많이 꺼내기<span>3년 전</span></div>
-  <div class="res">해지한 것으로 봐요</div>
-  <div class="note">그래서 아래 줄과 같아요</div>
+<div class="card mid">
+  <div class="sit">원금보다 많이 꺼내기<span>언제든</span></div>
+  <div class="res">계좌를 해지해야 해요</div>
+  <div class="note">3년 전이면 해지로 보고, 아래 칸처럼 세금을 다시 내요</div>
 </div>
 
 <div class="card bad">

diff --git a/MONEYWEATHER/03_콘텐츠/초안/2026-09-07_ISA_직장인_실제혜택_v3/numbers.md b/MONEYWEATHER/03_콘텐츠/초안/2026-09-07_ISA_직장인_실제혜택_v3/numbers.md
@@ -67,6 +67,13 @@
     - 삼성증권 ISA 안내: 「중도해지시 또는 국세청 부적격 통보시 과세특례를 적용받은 소득세액에 상당하는 세액이 추징됩니다」
   - 의무가입기간(3년)과 만기는 다르다. 한투 상품설명서에 만기 연장 가능이라고 적혀 있다
   - 검증상태: VERIFIED (2경로)
+- **2026-09-13 — 3년이 지난 뒤에도 계좌를 둔 채로는 원금까지만 꺼낼 수 있다**
+  - 한투 상품설명서: 중도인출 「납입원금 합계액 한도 내에서, 횟수 제한 없이」, 수익금 제외. **시점 제한이 없다** → 3년 후에도 같다
+  - 사용자 조사: 미래에셋증권 2026년 안내 「중도인출은 납입원금 합계액 한도 내」「투자로 인한 수익금은 계좌 해지 시점에만 인출가능」
+  - 법령: 조특법 제91조의18 제8항은 **3년 전** 원금 초과 인출만 규정. 3년 후를 금지하는 조문은 없다 → 막는 건 법이 아니라 금융회사 운영 기준
+  - 검증상태: VERIFIED (금융회사 2곳 + 법령 범위 확인)
+  - **충돌 기록:** 조사정리 폴더 메모는 「3년 경과 후에는 계좌를 유지한 채 원금을 초과하여 인출하는 것도 가능하다고 보는 것이 타당」. 세법에 금지 조문이 없다는 해석으로는 맞지만 실제 인출 가능 여부와 다르고, 출처가 없어 따르지 않았다. 메모의 「세법상 최소기간과 금융기관별 운영 규칙은 별개」는 FAQ에 반영
+  - 본문 반영: 5장 한 줄 요약을 「계좌를 둔 채로 꺼낼 수 있는 건 원금까지 / 번 돈은 해지 / 해지를 3년 채운 뒤에」로, 「3년이 지났다고 자유롭게 꺼낼 수 있는 건 아니다」 추가. 그림 04 두 번째 칸을 「언제든 → 계좌를 해지해야 해요」로
 - **2026-09-13 법령 원문 확인 (1순위)** — 조세특례제한법 [시행 2026-01-01, 공포 2025-12-23] 제91조의18
   - 제7항: 최초 계약일부터 3년이 되는 날 전에 해지하면 과세특례 세액 추징. **단 「계좌보유자의 사망ㆍ해외이주 등 대통령령으로 정하는 부득이한 사유」는 제외**
   - 제8항: 3년 전에 **납입금액 합계를 초과해 인출하면 그 인출일에 중도해지된 것으로 본다**
@@ -107,6 +114,15 @@
     → FAQ에 「대주주가 가진 주식은 빠진다」 추가. 3장 본문에서는 이 질문을 FAQ로 옮겼다
   - 소득세법 시행령 제26조의2 제4항: 집합투자기구 이익에 국내 상장증권 매매·평가 손익은 **포함하지 않는다** (외국 지수 추종 ETF는 제외 → 포함). 따라서 국내 주식형 ETF를 팔아 난 손실은 조특 시행령 제93조의4 제9항제2호에 따라 통산 대상에서 빠지는 구조로 읽힌다
     → 1경로(법령 해석)만이라 **본문에 구체적으로 쓰지 않는다.** 금융투자협회·운용사 자료로 2차 확인이 남음
+  - **2026-09-13 2차 확인 완료 — 국내 주식형 ETF·펀드를 팔아 난 손실은 통산에서 빠진다**
+    - 삼성증권 ISA 안내: 상품별 통산 기준 「펀드: 과표기준가로 산출된 손익(과세손익) / ETF 및 ETN: 과표차익(차손) 및 매매차익(차손) 중 작은값 / 국내 상장주식: 양도차손」, 「국내 주식형 펀드 손실은 ISA 내 다른 상품 이익과 통산 불가」
+    - 미래에셋증권 매거진 「알고 보면 핵이득, ISA의 손익통산」(2021-04-06): ETF의 국내주식 매매차익은 과세하지 않고, 해외주식형 ETF의 수익과 손실은 상계
+    - 법령 구조: 조특 시행령 제93조의4 제9항제2호(집합투자기구 이익에 포함되지 않는 손실 제외) + 소득세법 시행령 제26조의2 제4항(국내 상장증권 매매·평가 손익은 집합투자기구 이익에 불포함)
+    - 사용자 조사(2026-09-13 메시지): 증권사 안내상 국내주식형 펀드·ETF 매매차손, 채권 매매손익 제외
+    - 검증상태: VERIFIED (법령 + 2순위 2곳)
+    - **충돌 기록:** 02_조사정리/ISA의 장점_조사/ISA_질의_답변_정리.md 는 「국내 상장주식형 ETF의 매매손실 — 원칙적으로 반영 가능」으로 적었다. 출처가 적혀 있지 않았고, 위 법령·증권사 자료와 반대라 따르지 않았다
+  - 손익 차감 순서 (시행령 제10항): 같은 종류 자산끼리 → 남은 손실은 배당소득에서 → 그다음 이자소득에서. 본문에는 쓰지 않음 (초보자 글에서 계산 순서까지는 필요하지 않다)
+  - 본문 반영: 3장 예시를 **「해외 ETF A +300 / 해외 ETF B −100」**으로 상품을 먼저 밝히고, 「국내 주식형 ETF·펀드 손실은 빠진다」를 구체적으로 씀. 사용자 지적 — 상품을 안 밝힌 +300/−100은 「국내 주식형 ETF 손실도 빼준다」로 읽힐 수 있었다
 
 ## NUM-014 ETF 과세 (2026-09-13 추가)
 
@@ -158,6 +174,9 @@
   - 1번 「ISA 개편(조특법 §91조의18)」 — 계약기간·납입한도·일몰기한 정비 → **수정안: 현행 유지**
   - 2번 「생산적금융 ISA 신설(조특법 §91조의29 신설)」 → **수정안: 지원 확대** (최대 계약기간 제한 없음, 한도 이월 허용, 일몰 없음, 청년형 ISA와 청년미래적금 중복가입 가능)
   - → **생산적금융 ISA 신설안은 확정 정부안에 남아 있다.** FAQ에 한 문장 추가. 세부 조건은 여전히 정부안이라 본문에 쓰지 않는다
+  - 2026-09-13 표현 수정 — 「정부안에 남아 있습니다」도 「확정」처럼 읽힐 수 있다(사용자 지적). FAQ를 「정부가 신설안을 내놓았고, 법안은 9월 3일까지 국회에 제출돼 심사를 앞둔 상태」로. 「9월 1일 확정된 정부안」도 「9월 1일 국무회의를 거친 정부안」으로
+  - 조사정리 메모의 정부안 세부(연 2,000만원·총 2억원, 최대 계약기간 제한 없음, 이월 허용)는 보도자료 첨부 PDF와 일치. 「이자·배당 전액 비과세 방향」「기존 ISA와 중복 보유 허용 방향」은 첨부 PDF에서 확인하지 않았다 → 본문에 쓰지 않음
+  - **2026-12-31 확인할 것** (조사정리 메모의 목록을 따른다): 조특법 제91조의18 개정 여부 / 생산적금융 ISA 투자대상 / 국내 주식형 ETF 포함 여부 / 손익통산 대상과 제외 손실 / 한도 확정 여부 / 기존 ISA와 중복 가입 / 시행일과 적용례 / 시행규칙 「재정경제부령으로 정하는 주식」 최종 문언
 - 다음 검토: 2026-12-31 (정기국회 처리 결과)
 
 ---

diff --git a/MONEYWEATHER/03_콘텐츠/초안/2026-09-07_ISA_직장인_실제혜택_v3/factcheck.md b/MONEYWEATHER/03_콘텐츠/초안/2026-09-07_ISA_직장인_실제혜택_v3/factcheck.md
@@ -288,3 +288,45 @@
 - 1장에서 「여러 투자상품」이 무엇인지 안 풀고 넘어가도 되는가 → 이 장의 요점은 「상품이 아니라 계좌」라서 된다. 구체적인 상품은 필요한 장에서 나온다
 - 5장 그림을 안 보고 글만 읽어도 답이 되는가 → 「한 줄로 줄이면 …」 문장이 그림 없이도 답한다 (CLAUDE.md §24 독자 번역 테스트 3)
 - 그림의 작은 글씨(한도 미복원, 부득이한 사유)는 모바일에서 안 읽힐 수 있다 → 둘 다 본문 또는 FAQ에 글로 있다
+
+
+## 11. 미확인 사항 정리 — 조사정리 폴더·사용자 조사와 대조 (2026-09-13)
+
+8·9번에 남겼던 미확인 네 항목을 사용자 조사(메시지)와 `02_조사정리/ISA의 장점_조사/ISA_질의_답변_정리.md`, 공식자료로 정리했다.
+
+### 두 조사 자료가 서로 달랐다
+
+| 항목 | 사용자 메시지 | 조사정리 폴더 메모 | 공식자료 확인 | 따른 쪽 |
+| --- | --- | --- | --- | --- |
+| 국내 주식형 ETF 매매손실 통산 | ❌ 제외 | 「원칙적으로 반영 가능 / 단정 불가」 | 법령 구조(시행령 제93조의4 제9항제2호 + 소득세법 시행령 제26조의2 제4항) + 삼성증권 「국내 주식형 펀드 손실은 통산 불가」「ETF는 과표차손익과 매매차손익 중 작은값」 + 미래에셋 매거진 | **제외** (메시지·공식자료) |
+| 3년 후 계좌 유지하며 원금 초과 인출 | ❌ 현재 자료상 불가 | 「가능하다고 보는 것이 타당」 | 한투 「납입원금 합계액 한도 내」(시점 제한 없음), 법령 제8항은 3년 전만 규정 | **계좌를 둔 채로는 불가, 해지해야 함** (메시지·금융회사 자료) |
+| 「재정경제부령으로 정하는 주식」 | 주권상장법인 주식 | 주권상장법인 주식(대주주 제외) | 시행규칙 제42조의3 제1항 | 일치 |
+| 생산적금융 ISA | 국회 심사 전, 확정 아님 | 정부안 확정·제출 단계, 국회 의결 전 | 보도자료 첨부 PDF | 일치 |
+
+사용자는 「조사정리 폴더를 우선할 것」이라고 했다. 하지만 폴더 메모에는 출처가 없었고, 두 항목이 메시지·공식자료와 반대였다.
+§38.5는 출처가 충돌할 때 **임의로 하나를 고르지 않고 원문으로 확인해 정하도록** 한다. 그래서 공식자료를 확인해 정했고, 폴더를 따르지 않은 이유를 여기와 numbers.md에 남긴다.
+폴더 메모에서 받아들인 것: 「세법상 최소기간과 금융기관별 운영 규칙은 별개」(FAQ 반영), 12-31 확인 목록 여덟 항목(numbers.md NUM-010).
+
+### 확인 결과표
+
+| 확인 항목 | 결과 | 본문 |
+| --- | --- | --- |
+| 국내 주식형 ETF·펀드 매매손실 통산 | ❌ 제외 | 3장 「원래 세금이 안 붙는 손익은 빠집니다」 + 예시, FAQ |
+| 국내 상장 해외 ETF 과세손익 | ⭕ 통산 대상 (과표차손익과 매매차손익 중 작은값) | 3장 예시를 해외 ETF로 명시 |
+| 국내 상장주식 직접 매매 양도차손 | ⭕ 통산 (대주주 보유분 제외) | FAQ |
+| 「재정경제부령으로 정하는 주식」 | ⭕ 주권상장법인의 주식 | 쓰지 않음 (FAQ의 「국내 상장주식」으로 충분) |
+| 손실이면 무조건 모든 이익과 상계 | ❌ 아님 | 3장 「그렇지 않습니다」 |
+| 손익 차감 순서 | 같은 종류 → 배당소득 → 이자소득 | 쓰지 않음 (numbers.md에만) |
+| 3년 후 원금 초과 인출하며 계좌 유지 | ❌ 금융회사 안내상 불가 | 5장 한 줄 요약, 그림 04 두 번째 칸, FAQ |
+| 3년 후 해지하고 세제혜택 적용 | ⭕ | 그림 04 네 번째 칸 |
+| 생산적금융 ISA | ⏳ 국회 최종 처리 확인 필요 | FAQ 「신설안을 내놓았고 … 국회 심사를 앞둔 상태」 |
+| 생산적금융 ISA 최종 확인일 | **2026-12-31** | — |
+
+### 사용자 지적으로 고친 예시
+
+- **3장 +300 / −100** — 어떤 상품인지 밝히지 않아 「국내 주식형 ETF에서 100만원 손실을 봐도 다른 이익에서 빼준다」로 읽힐 수 있었다
+  → 예시 앞에 「국내 상장 해외 ETF A·B」를 먼저 밝히고, 코드블록 이름도 「해외 ETF A / 해외 ETF B」, 「세금 계산에 들어가는 손익이」라고 전제
+  → 바로 뒤에 반대 예(국내 주식형 ETF −100 + 예금 이자 +300이면 100을 빼주지 않음)
+  → 반대 예에서 「300만원을 기준으로 계산」은 국내 주식형 ETF 과세손익이 정확히 0이라고 단정하는 표현이라 「그 100만원을 빼주지 않고 계산해요」로 약하게 씀
+- **5장 「번 돈까지 꺼내는 건 3년을 채운 뒤에」** — 「3년이 지나면 계좌를 둔 채 자유롭게 꺼낼 수 있다」로 읽힐 수 있었다 → 「계좌를 둔 채로는 원금까지 / 번 돈은 해지」로
+- **그림 04 두 번째 칸** — 「3년 전」 한정 → 「언제든 · 계좌를 해지해야 해요」. 3년 뒤라면 해지가 불리하지 않아서 분홍이 아니라 중립색

diff --git a/MONEYWEATHER/CLAUDE.md b/MONEYWEATHER/CLAUDE.md
@@ -1935,6 +1935,33 @@ FACTUAL_ACCURACY 로 거른다   ← 「이 문장, 법·제도상 정말 그런
 * **제도 절차 표현.** 「만기일」「돌려받는 한도」 — 법문은 「계약기간이 만료된 날」「공제 대상 납입 한도」
 * **FAQ·체크리스트·결론 문장.** 짧게 쓰는 자리라 조건이 가장 잘 잘린다
 
+### 제도가 「합쳐준다」「빼준다」고 할 때는 무엇이 빠지는지부터 확인한다
+
+손익통산·공제·비과세처럼 **무언가를 합치거나 빼주는 제도**는 대상이 전부인 것처럼 쓰기 쉽다.
+
+* 「손익통산이니까 투자손실이면 다른 이익에서 다 빼준다」고 쓰지 않는다
+* **그 손실이 세법상 어떤 소득으로 계산되는지**(배당소득? 비과세 매매차익?)와 **법령상 제외 항목**을 확인한다
+  (ISA — 국내 상장주식 직접 매매 손실은 합산, 국내 주식형 ETF·펀드 매매손실은 제외. 시행령 제93조의4 제9항, 소득세법 시행령 제26조의2 제4항)
+* 차감 순서가 법령에 있으면 기록해둔다. 본문에 쓸지는 읽기 난이도로 판단한다
+
+### 예시는 결과를 바꾸는 입력부터 밝힌다
+
+같은 +300 / −100이라도 **상품 종류에 따라 결과가 달라진다.**
+결과가 입력의 종류에 따라 갈리는 예시라면, 숫자보다 **무엇의 +300인지를 먼저** 쓴다.
+
+* ❌ 「투자 A +300만원, 투자 B −100만원 → 200만원」
+* ⭕ 「국내 상장 해외 ETF A +300만원, B −100만원 → 200만원」 + 반대 예(국내 주식형 ETF 손실은 빼주지 않음)
+
+### 「법이 막지 않는다」와 「실제로 할 수 있다」는 다르다
+
+* 법령에 금지 조문이 없어도 **금융회사 운영 기준이 막을 수 있다** (ISA — 3년 후에도 계좌를 둔 채로는 원금까지만 인출)
+* 둘을 구분해서 쓰고, 운영 기준이면 「금융회사 안내 기준」임을 기록한다
+
+### 조사 메모와 공식자료가 다를 때
+
+* 사용자·내가 쓴 조사 메모라도 **출처가 적혀 있지 않으면 사실의 근거가 아니다.** 확인할 질문 목록으로 쓴다
+* 메모끼리, 또는 메모와 공식자료가 다르면 **원문으로 확인해 정한다.** 어느 쪽을 왜 따랐는지 numbers.md·factcheck.md에 남기고, 사용자에게도 알린다
+
 ### 핵심 요약은 개념, 본문은 숫자
 
 첫 화면(`[정답]` 박스)에 숫자·조건을 몰아 넣으면 **읽기 부담**이 크고,

diff --git a/MONEYWEATHER/03_콘텐츠/초안/2026-09-07_ISA_직장인_실제혜택_v3/sources.md b/MONEYWEATHER/03_콘텐츠/초안/2026-09-07_ISA_직장인_실제혜택_v3/sources.md
@@ -52,6 +52,17 @@
 - 소득세법 시행령 [286211, 공포 2026-05-22] 제118조의2 제3항 (60일), 제40조의2 제3항 (55세 연금수령), 제26조의2 제4항 (집합투자기구 이익 범위)
 - 조세특례제한법 시행령 제93조의4 제1항 (서민형 증빙 — 소득확인증명서)
 
+## SRC-010 미래에셋증권 매거진 「알고 보면 핵이득, ISA의 손익통산」 (2순위 / 금융기관 공식 콘텐츠) — 2026-09-13 추가
+
+- [기사 보기](https://magazine.securities.miraeasset.com/contents.php?idx=251) · 게시 2021-04-06 (제도 설명용. 손익통산 구조는 이후 바뀌지 않았고 법령 원문으로 교차 확인)
+- ETF의 국내주식 매매차익은 과세하지 않음 / 해외주식형 ETF 수익·손실은 상계 / 중개형 ISA 국내 상장주식 양도차손은 다른 소득과 상계
+
+## 참고 — 사용자 조사 메모 (출처 순위 밖, 비교용)
+
+- `02_조사정리/ISA의 장점_조사/ISA_질의_답변_정리.md` (기준일 2026-09-13)
+- 출처가 적혀 있지 않아 **사실의 근거로 쓰지 않고**, 확인할 질문 목록과 12-31 체크리스트로 썼다
+- 공식자료와 달랐던 두 항목(국내 주식형 ETF 손실 / 3년 후 원금 초과 인출)은 numbers.md NUM-011·NUM-006에 충돌 기록
+
 ## SRC-006 ★ 삼성증권 ISA 안내 (2순위 / 금융기관 공식) — 2026-09-13 추가
 
 - [안내 보기](https://www.samsungpop.com/mbw/finance/isa.do?cmd=guide)
